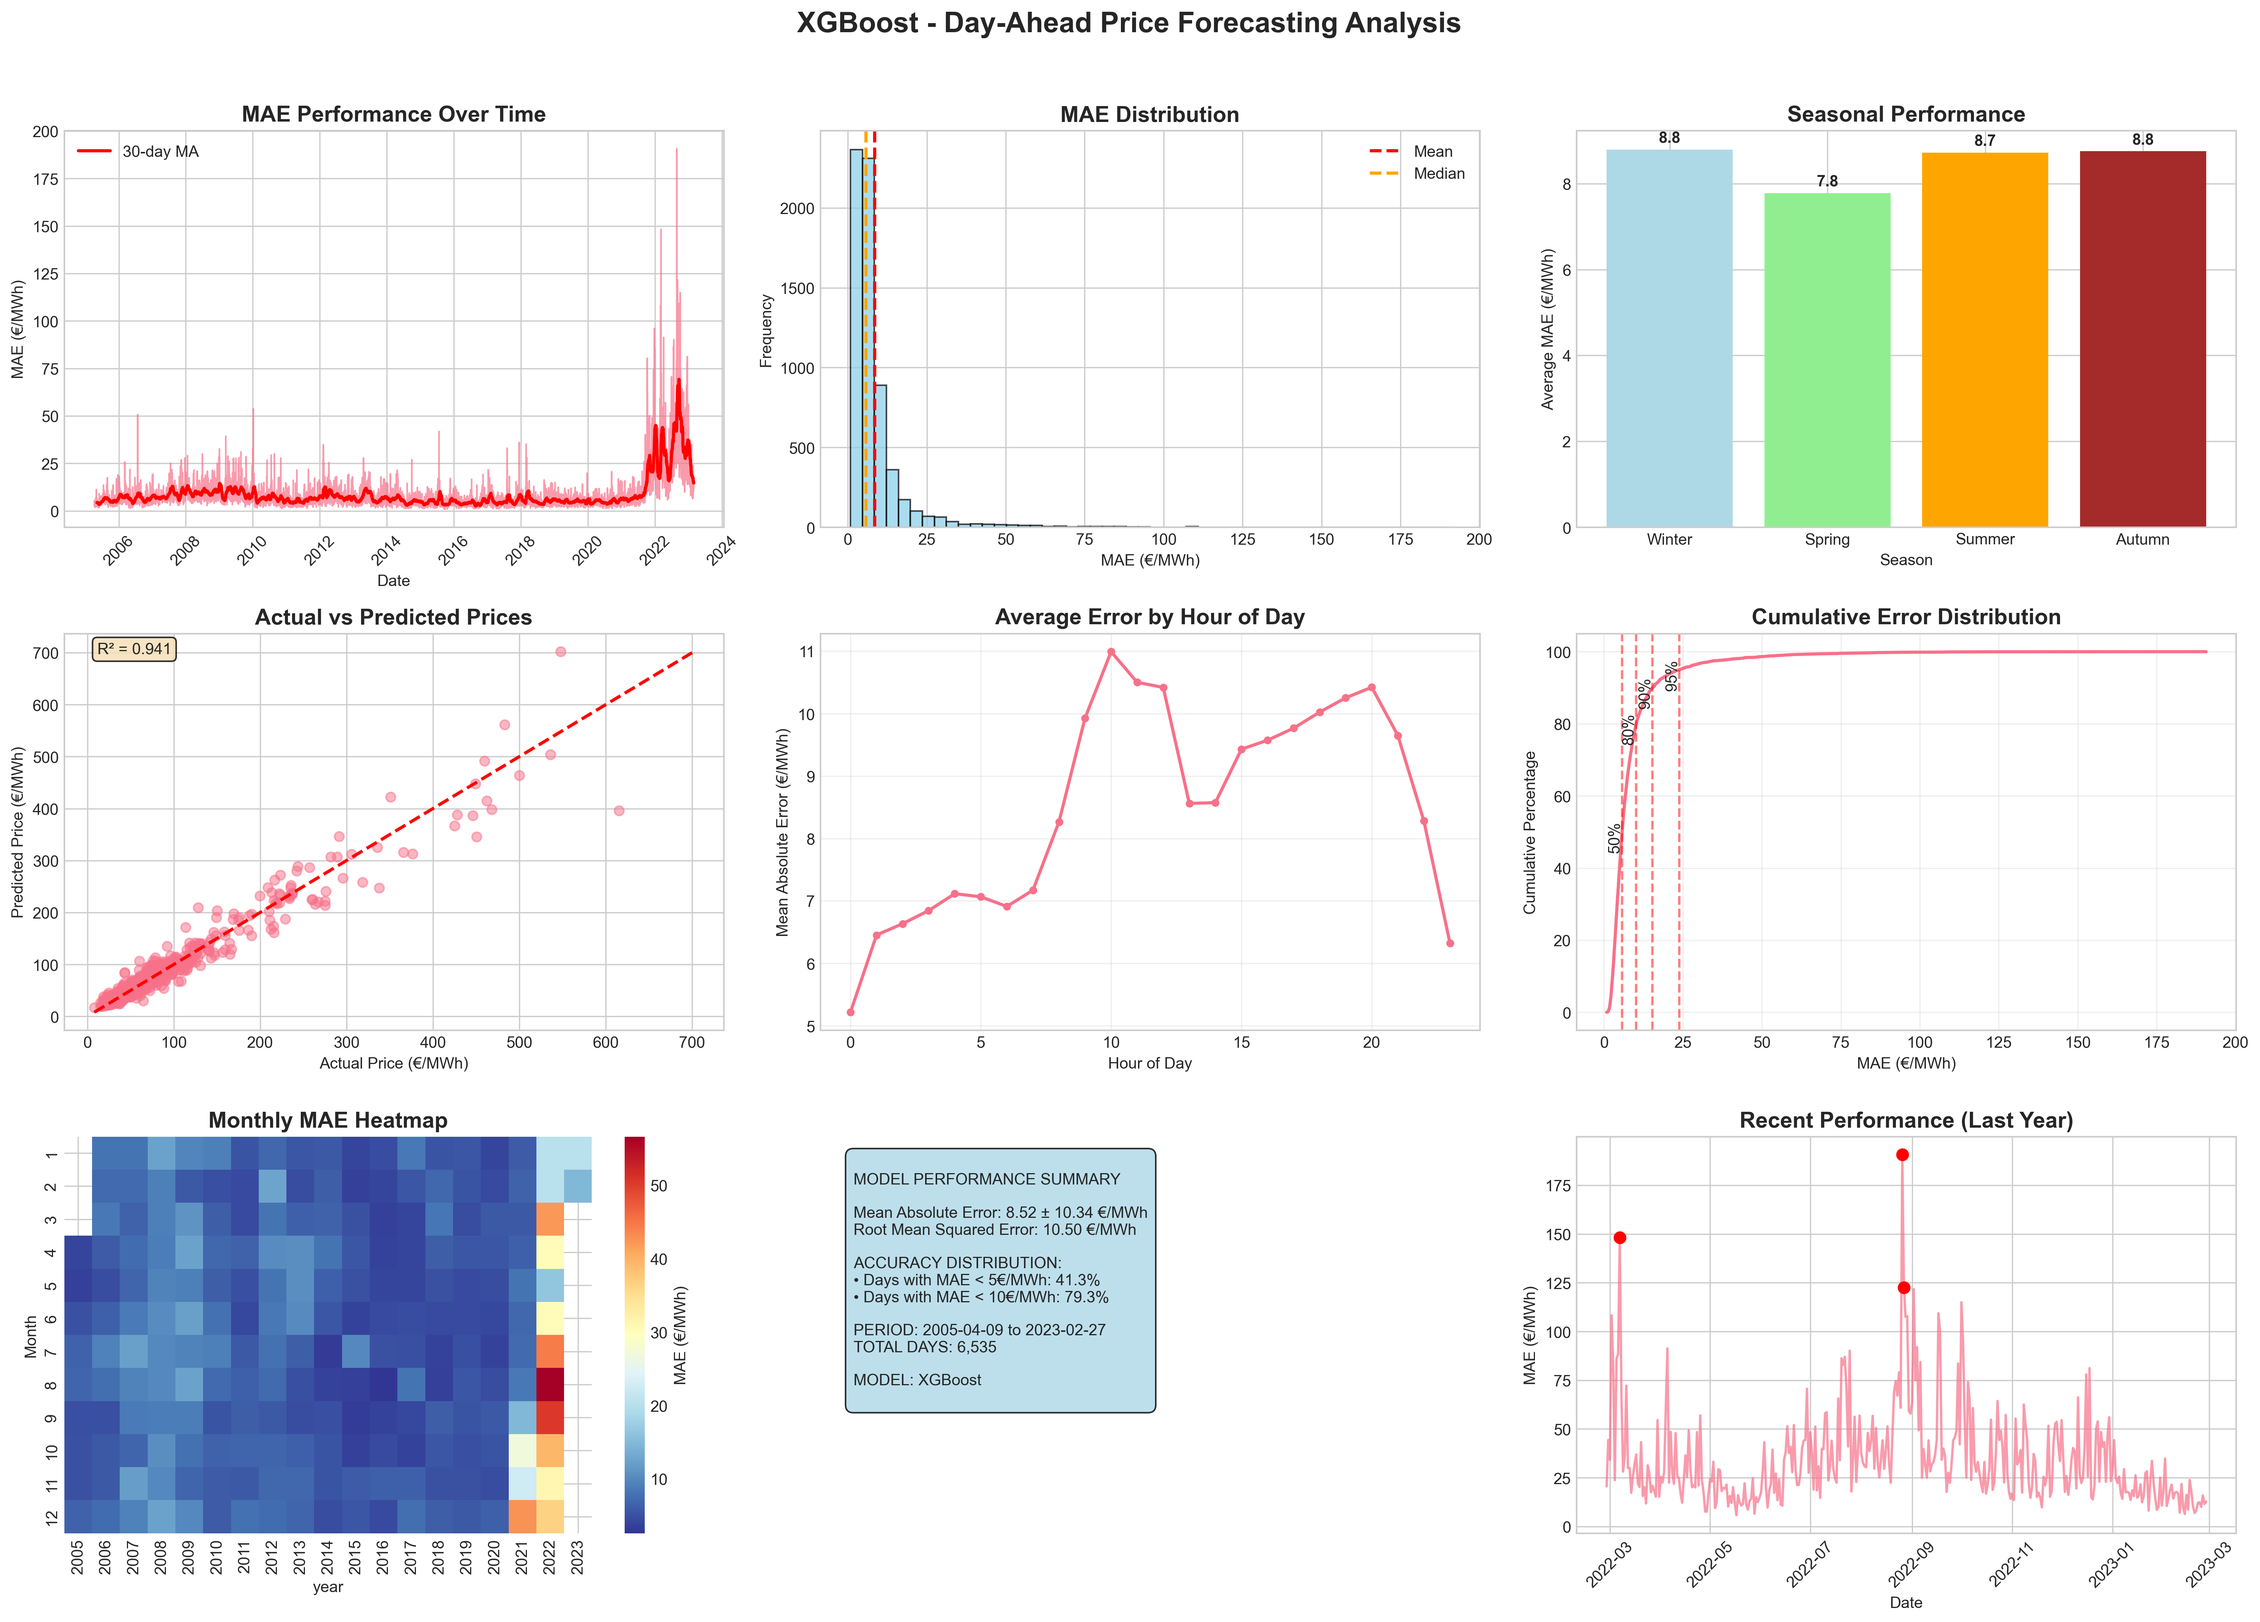
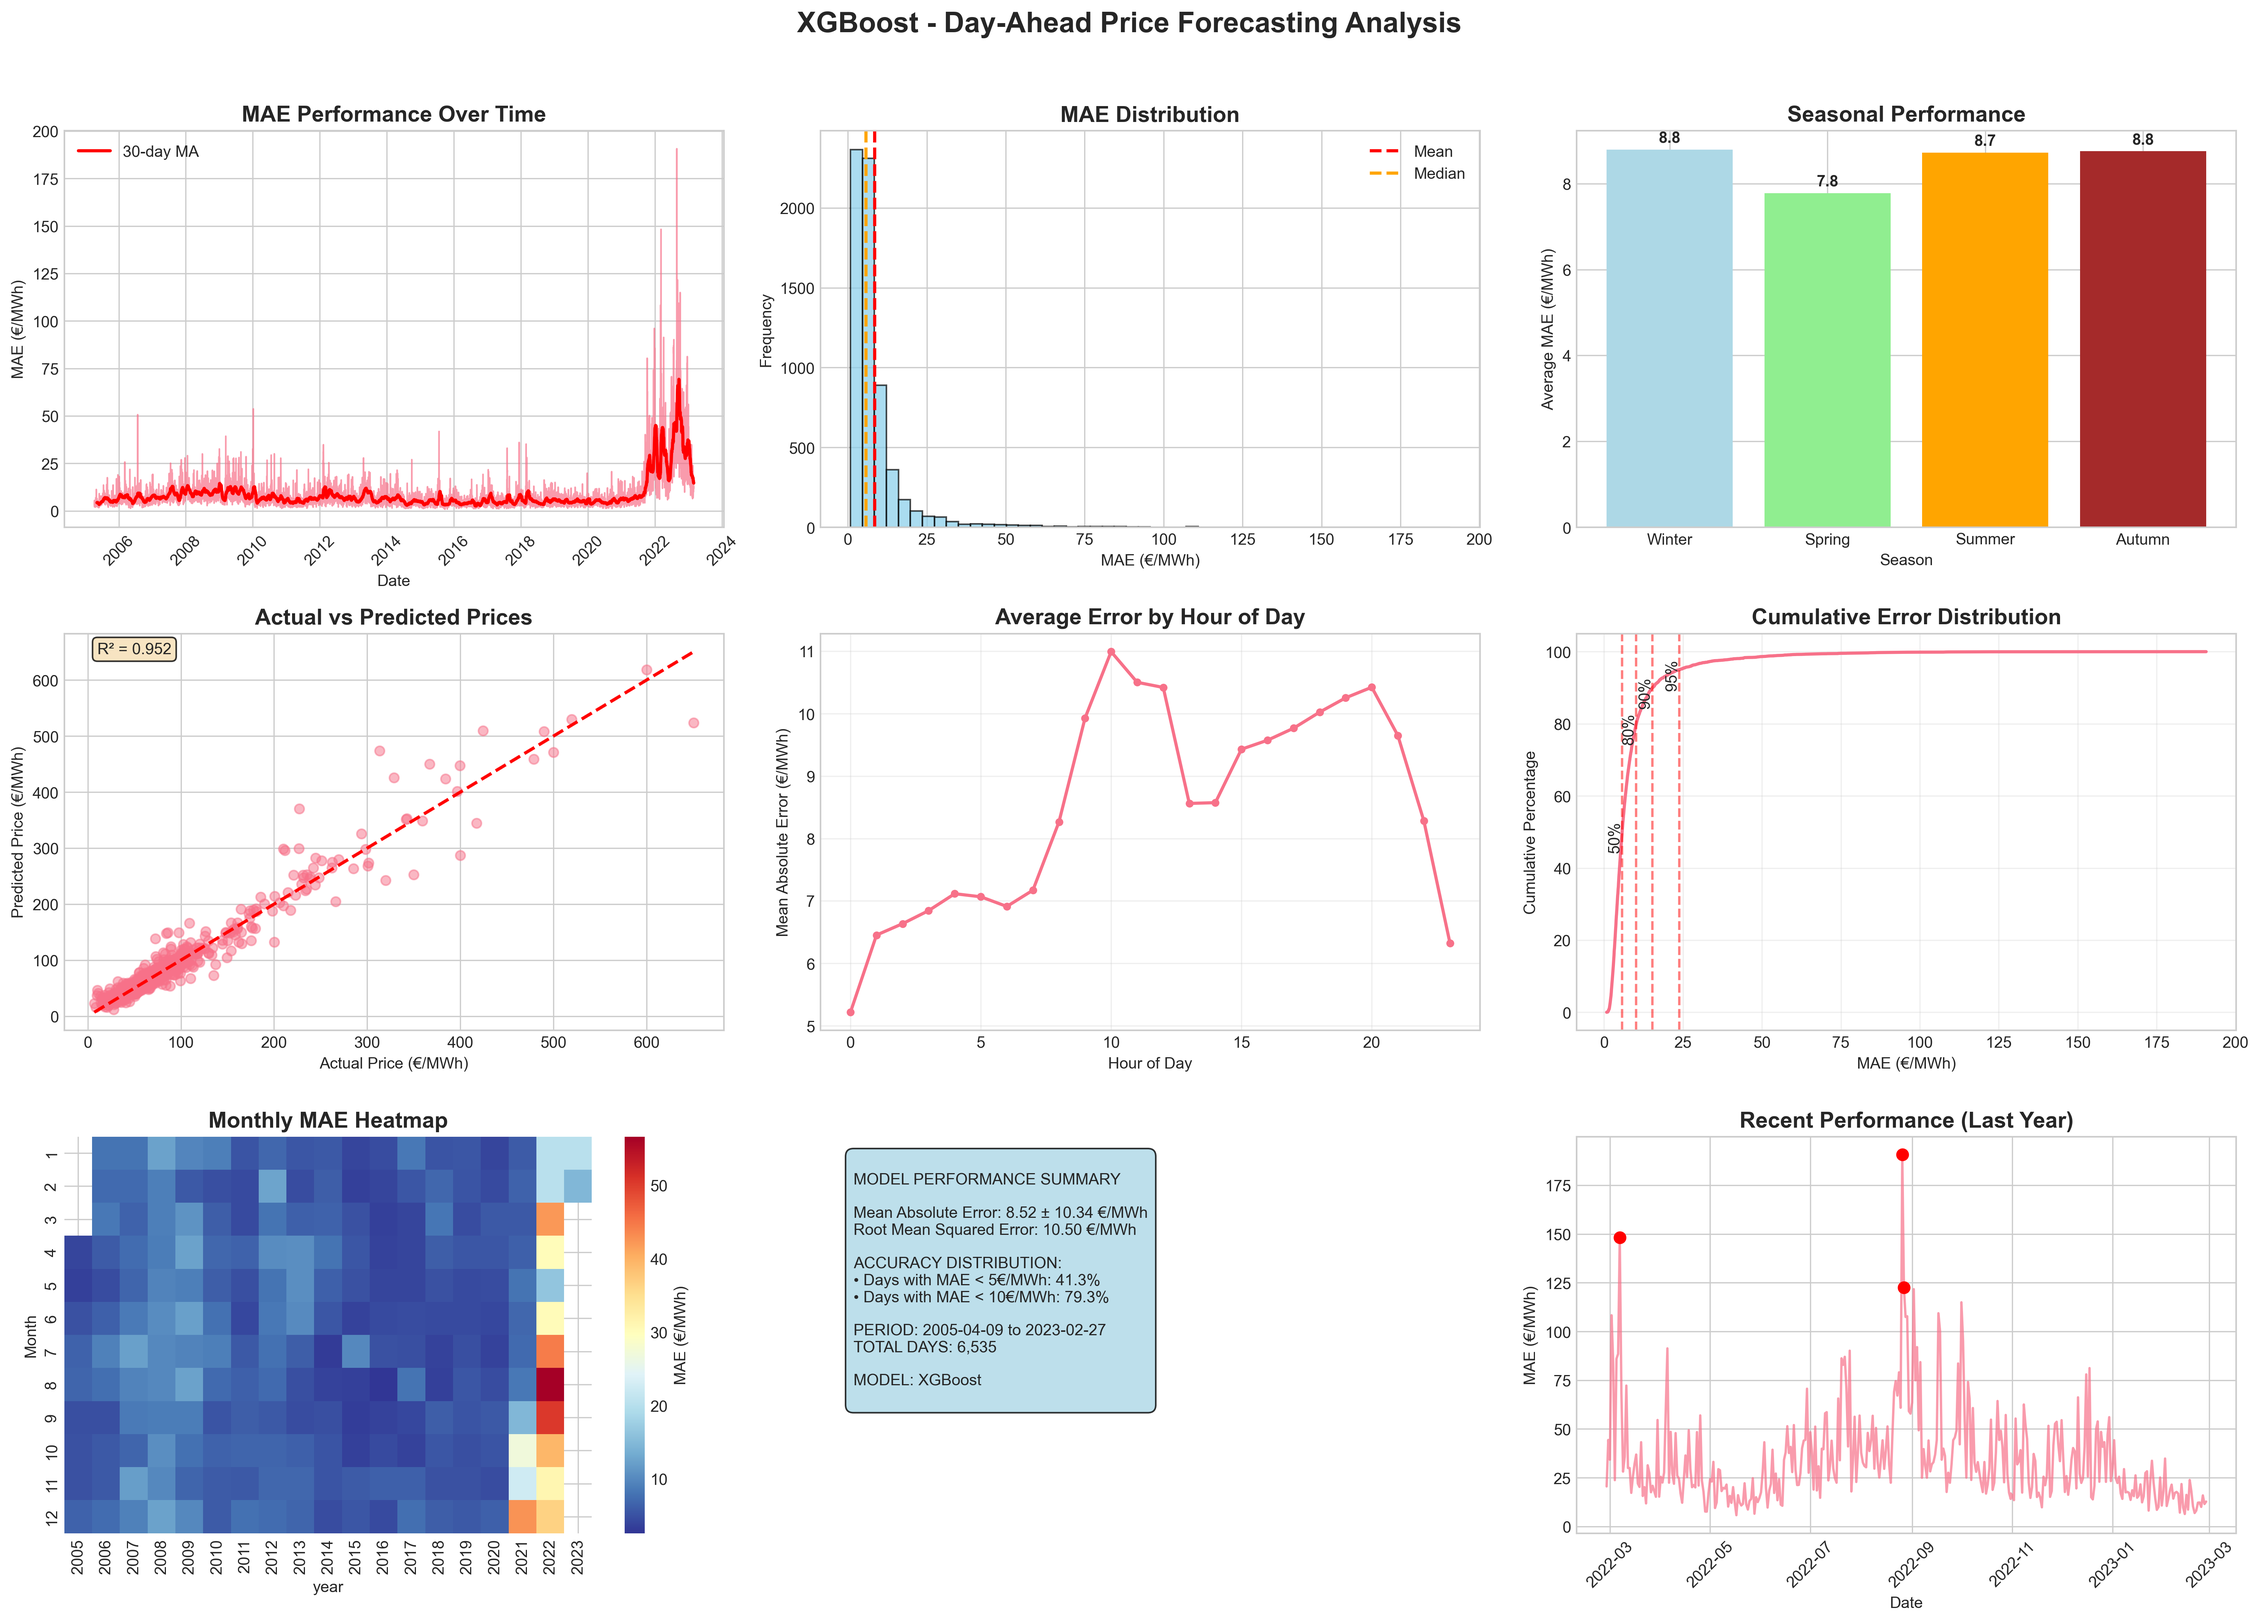
r^2 change

Changed region(s): [[0.0312, 0.4348, 0.2494, 0.6212]]

diff --git a/notebooks/04_reporting_and_visualizations.py b/notebooks/04_reporting_and_visualizations.py
@@ -1,6 +1,6 @@
 import pandas as pd 
 from pathlib import Path
-from sklearn.metrics import mean_absolute_error, mean_squared_error,r2_score
+from sklearn.metrics import r2_score
 import numpy as np
 import matplotlib.pyplot as plt
 import seaborn as sns
@@ -73,7 +73,7 @@ def create_professional_plots(results_df, predictions_df, model_name="XGBoost"):
     plt.title('Actual vs Predicted Prices', fontsize=14, fontweight='bold')
     
     # R² annotation
-    r2 = np.corrcoef(sample_pred['actual'], sample_pred['predicted'])[0,1]**2
+    r2 = r2_score(predictions_df['actual'], predictions_df['predicted'])
     plt.text(0.05, 0.95, f'R² = {r2:.3f}', transform=plt.gca().transAxes, 
              bbox=dict(boxstyle="round", facecolor='wheat', alpha=0.8))
     

diff --git a/README.md b/README.md
@@ -4,7 +4,7 @@ Day-ahead forecasting of "Prezzo Unico Nazionale" (PUN) - the hourly electricity
 
 ## 🎯 Project Overview
 
-This project implements a robust time series forecasting pipeline for Italian electricity prices, achieving 8.5 €/MWh MAE with 94.7% correlation across an 18-year backtesting period (2005-2023).
+This project implements a robust time series forecasting pipeline for Italian electricity prices, achieving 8.5 €/MWh MAE with 95.2% coefficient of determination across an 18-year backtesting period (2005-2023).
 
 ## 🏆 Key Results
 
@@ -81,12 +81,11 @@ This project implements a robust time series forecasting pipeline for Italian el
 #### Immediate Priorities:
 - [ ] **Feature Importance Analysis** - SHAP values and XGBoost built-in importance
 - [ ] **European Market Integration** - German wind, cross-border flows, TTF gas prices, Switzerland electricity prices
-- [ ] **Hyperparameter Optimization** - Automated tuning with cross-validation
+- [ ] **Hyperparameter Optimization** - Automated tuning with cross-validation using OpTuna library
 - [ ] **Residual Analysis** - Ljung-Box test, autocorrelation diagnostics
 
 #### Advanced Enhancements:
 - [ ] **Ensemble Methods** - Combine XGBoost, LightGBM, Random Forest
-- [ ] **Hyperparameters optimization** - Using OpTuna library
 - [ ] **Regime Detection** - Handle market state changes automatically
 - [ ] **Risk Metrics** - VaR, Expected Shortfall for trading applications
 - [ ] **Real-time Pipeline** - Production-ready forecasting system
